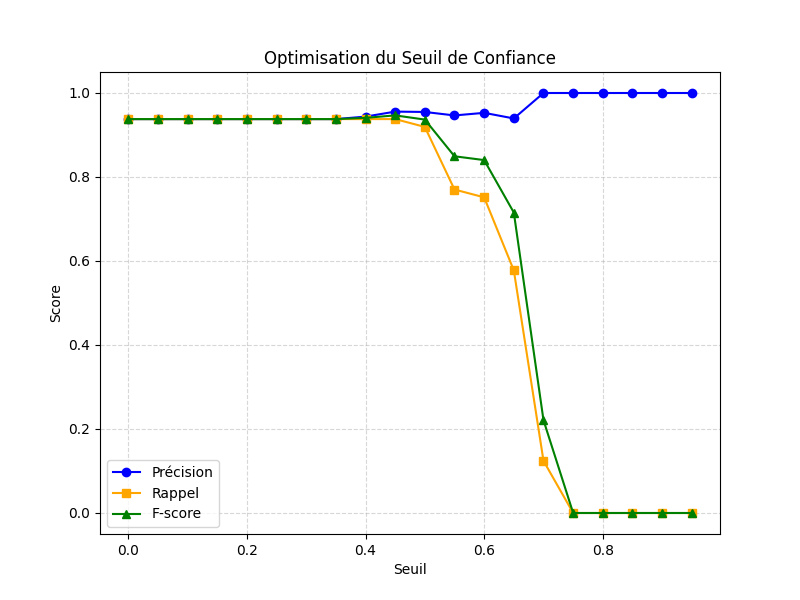
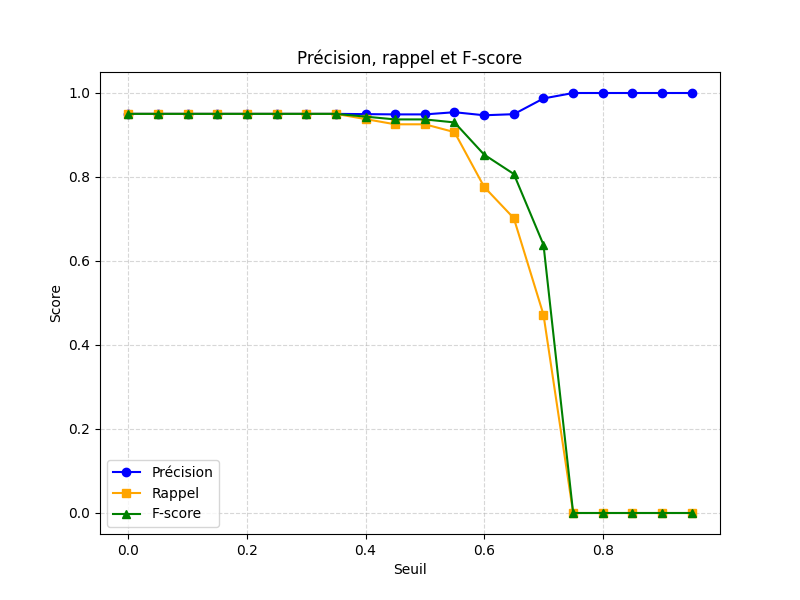
Logging

Changed region(s): [[0.1562, 0.18, 0.7188, 0.84], [0.3125, 0.09, 0.6875, 0.12], [0.6562, 0.15, 0.7188, 0.18]]

diff --git a/code/Modele/plot_seuils.py b/code/Modele/plot_seuils.py
@@ -2,6 +2,11 @@ import json
 from pathlib import Path
 import numpy as np
 import matplotlib.pyplot as plt
+import logging
+from logging_config import setup_logging
+
+setup_logging("PROD")  # ou "DEV"
+logger = logging.getLogger(__name__)
 
 BASE_DIR = Path(__file__).resolve().parent
 STATS_DIR = BASE_DIR / "stats_predictions"
@@ -12,7 +17,7 @@ def main():
         logits = np.load(STATS_DIR / "logits.npy")
         vrais_labels = np.load(STATS_DIR / "vrais_labels.npy")
     except FileNotFoundError:
-        print("Erreur : relance d'abord le fichier train_model.py !")
+        logger.info("Erreur : relance d'abord le fichier train_model.py !")
         return
 
     # Récupération des prédictions et de leur score de confiance
@@ -25,8 +30,8 @@ def main():
     precisions, rappels = [], []
     f_scores = []
 
-    print(f"{'Seuil':<6} | {'Précision':<10} | {'Rappel':<10} | {'F-score':<10} | {'Vides':<15}")
-    print("-" * 65)
+    logger.info(f"{'Seuil':<6} | {'Précision':<10} | {'Rappel':<10} | {'F-score':<10} | {'Vides':<15}")
+    logger.info("-" * 65)
 
     for s in seuils:
         indices_valides = [i for i in range(len(probs)) if confiances[i] >= s]
@@ -50,7 +55,7 @@ def main():
         rappels.append(r)
         f_scores.append(f)
         
-        print(f"{s:.2f}   | {p:.4f}     | {r:.4f}     | {f:.4f}    | {nb_vides} / {len(vrais_labels)}")
+        logger.info(f"{s:.2f}   | {p:.4f}     | {r:.4f}     | {f:.4f}    | {nb_vides} / {len(vrais_labels)}")
 
     #Tracé du graphique
     plt.figure(figsize=(8, 6))

diff --git a/code/Modele/train_model.py b/code/Modele/train_model.py
@@ -6,10 +6,14 @@ import pandas as pd
 from datasets import Dataset
 from sklearn.metrics import accuracy_score, precision_recall_fscore_support
 from transformers import AutoModelForSequenceClassification, AutoTokenizer, Trainer, TrainingArguments, TrainerCallback
+import logging
+from logging_config import setup_logging
 
-BASE_DIR = Path(__file__).resolve().parent
+setup_logging("PROD")  # ou "DEV"
+logger = logging.getLogger(__name__)
 
 # Chemins des données et modèles
+BASE_DIR = Path(__file__).resolve().parent
 TRAIN_FILE = BASE_DIR / "train.json"
 DEV_FILE = BASE_DIR / "dev.json"
 TEST_FILE = BASE_DIR / "test.json"
@@ -31,9 +35,9 @@ class AffichagePrecisionCallback(TrainerCallback):
         precision = metrics.get("eval_precision")
         
         if accuracy is not None and precision is not None:
-            print(f"\n--- Époque {epoch} ---")
-            print(f"Accuracy : {accuracy:.4f} | Précision : {precision:.4f}")
-            print("-" * 20)
+            logger.info(f"\n--- Époque {epoch} ---")
+            logger.info(f"Accuracy : {accuracy:.4f} | Précision : {precision:.4f}")
+            logger.info("-" * 20)
 
 def make_training_arguments():
     params = {

diff --git a/code/Modele/Comptage.py b/code/Modele/Comptage.py
@@ -1,5 +1,10 @@
 import json
 from collections import Counter
+import logging
+from logging_config import setup_logging
+
+setup_logging("PROD")  # ou "DEV"
+logger = logging.getLogger(__name__)
 
 
 # Ouverture directe du fichier JSON
@@ -21,9 +26,9 @@ for element in data:
 compte_labels = Counter(tous_les_labels)
 
 # Affichage des résultats
-print(f"Analyse des labels pour le fichier : {nom_fichier}")
-print(f"Nombre total de labels attribués : {len(tous_les_labels)}")
+logger.info(f"Analyse des labels pour le fichier : {nom_fichier}")
+logger.info(f"Nombre total de labels attribués : {len(tous_les_labels)}")
 
 # Affichage de chaque label avec son total
 for label, nb in compte_labels.most_common():
-    print(f" - {label} : {nb}")
+    logger.info(f" - {label} : {nb}")

diff --git a/code/Modele/Séparation.py b/code/Modele/Séparation.py
@@ -2,13 +2,18 @@ import json
 import numpy as np
 from sklearn.model_selection import StratifiedShuffleSplit
 from collections import Counter
+import logging
+from logging_config import setup_logging
+
+setup_logging("PROD")  # ou "DEV"
+logger = logging.getLogger(__name__)
 
 # Chargement 
 try :
     with open("considerants_avec_labels.json", "r", encoding="utf-8") as f:
         data = json.load(f)
 except : 
-    print("Le fichier considerants_avec_labels.json n'existe pas")
+    logger.info("Le fichier considerants_avec_labels.json n'existe pas")
 
 # Filtrage
 EXCLURE = ["1. irrecevabilite","1. procedure", "None", None]
@@ -47,6 +52,6 @@ with open("data_a_predire.json", "w", encoding="utf-8") as f:
 for nom in ["train.json", "dev.json", "test.json"]:
     with open(nom, "r", encoding="utf-8") as f:
         contenu = json.load(f)
-    print(f"\n--- {nom} ({len(contenu)} éléments) ---")
+    logger.info(f"\n--- {nom} ({len(contenu)} éléments) ---")
     for label, nb in Counter([c["label"][0] for c in contenu]).most_common():
-        print(f"  - {label} : {nb}")
+        logger.info(f"  - {label} : {nb}")